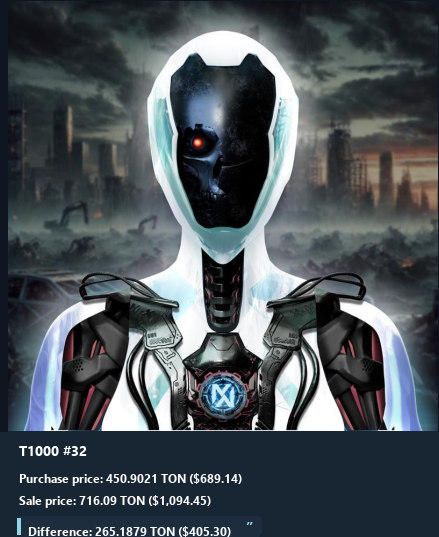
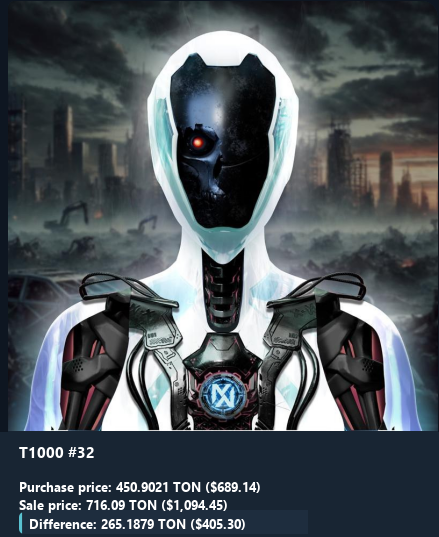
Rebuild EN profit cards to match RU layout and quote chrome.
Same line spacing and Telegram quote bar; English labels with TON/USD only.

Changed region(s): [[0.0296, 0.8045, 0.5923, 1.0]]

diff --git a/backend/scripts/make_en_profit_images.py b/backend/scripts/make_en_profit_images.py
@@ -1,5 +1,5 @@
 #!/usr/bin/env python3
-"""EN profit cards: same layout as RU originals, TON + USD only (no rubles)."""
+"""EN cards: clean panel + RU quote chrome, English labels, TON/$ only."""
 from __future__ import annotations
 
 import os
@@ -10,196 +10,133 @@ SRC = os.path.join(HERE, "..", "images_folder_probe")
 SRC_FALLBACK = os.path.join(HERE, "..", "images_folder")
 OUT = os.path.join(HERE, "..", "images_folder_en")
 
-# Exact panel starts from RU originals; keep same canvas size (no extend).
-SPECS = [
-    {
-        "file": "profits1.png",
-        "panel_y": 432,
-        "title": "T1000 #32",
-        "buy": ("450.9021", "689.14"),
-        "sell": ("716.09", "1,094.45"),
-        "diff": ("265.1879", "405.30"),
-        "theme": "dark",
-        "pad_x": 19,
-        "title_dy": 8,
-        "gap_title": 14,
-        "gap_lines": 6,
-        "gap_before_diff": 8,
-        "fs_title": 14,
-        "fs_body": 12,
-    },
-    {
-        "file": "profits2.jpg",
-        "panel_y": 608,
-        "title": "BOXER #25",
-        "buy": ("301.5967", "332.64"),
-        "sell": ("578.22", "637.75"),
-        "diff": ("276.6233", "305.10"),
-        "theme": "light",
-        "pad_x": 43,
-        "title_dy": 25,
-        "gap_title": 48,
-        "gap_lines": 36,
-        "gap_before_diff": 40,
-        "fs_title": 26,
-        "fs_body": 22,
-    },
-    {
-        "file": "profits3.png",
-        "panel_y": 432,
-        "title": "Meebit #18494",
-        "buy": ("232.6196", "355.53"),
-        "sell": ("460.91", "704.44"),
-        "diff": ("228.2904", "348.91"),
-        "theme": "dark",
-        "pad_x": 15,
-        "title_dy": 8,
-        "gap_title": 14,
-        "gap_lines": 6,
-        "gap_before_diff": 8,
-        "fs_title": 14,
-        "fs_body": 12,
-    },
-    {
-        "file": "profits4.png",
-        "panel_y": 432,
-        "title": "alien fren #9671",
-        "buy": ("872.98", "1,334.23"),
-        "sell": ("1,043.24", "1,594.45"),
-        "diff": ("170.26", "260.22"),
-        "theme": "dark",
-        "pad_x": 14,
-        "title_dy": 8,
-        "gap_title": 14,
-        "gap_lines": 6,
-        "gap_before_diff": 8,
-        "fs_title": 14,
-        "fs_body": 12,
-    },
-]
 
-
-def find_font(bold: bool) -> str:
-    names = (
-        ["segoeuib.ttf", "arialbd.ttf", "calibrib.ttf", "DejaVuSans-Bold.ttf"]
-        if bold
-        else ["segoeui.ttf", "arial.ttf", "calibri.ttf", "DejaVuSans.ttf"]
-    )
-    for root in (
-        r"C:\Windows\Fonts",
-        "/usr/share/fonts/truetype/dejavu",
-        "/usr/share/fonts/truetype/liberation",
-    ):
-        for name in names:
-            path = os.path.join(root, name)
-            if os.path.exists(path):
-                return path
-    raise FileNotFoundError("No usable font")
-
-
-def sample_panel_bg(im: Image.Image, panel_y: int) -> tuple[int, int, int]:
-    w, h = im.size
-    samples = []
-    for y in range(panel_y + 2, min(panel_y + 36, h - 2)):
-        for x in (w // 2, w // 3, 2 * w // 3):
-            samples.append(im.getpixel((x, y))[:3])
-    samples.sort(key=lambda c: sum(c))
-    return samples[len(samples) // 2]
+def find_font(size: int) -> ImageFont.FreeTypeFont:
+    for name in ("segoeuib.ttf", "arialbd.ttf", "calibrib.ttf"):
+        path = os.path.join(r"C:\Windows\Fonts", name)
+        if os.path.exists(path):
+            return ImageFont.truetype(path, size)
+    return ImageFont.truetype("/usr/share/fonts/truetype/dejavu/DejaVuSans-Bold.ttf", size)
 
 
 def src_path(fname: str) -> str:
     p = os.path.join(SRC, fname)
-    if os.path.exists(p):
-        return p
-    return os.path.join(SRC_FALLBACK, fname)
+    return p if os.path.exists(p) else os.path.join(SRC_FALLBACK, fname)
 
 
-def render(spec: dict) -> str:
-    base = Image.open(src_path(spec["file"])).convert("RGBA")
-    w, h = base.size
-    panel_y = spec["panel_y"]
-    theme = spec["theme"]
-    bg = sample_panel_bg(base, panel_y)
-    im = base.copy()
+def render_boxer() -> str:
+    fname = "profits2.jpg"
+    ru = Image.open(src_path(fname)).convert("RGB")
+    im = ru.copy()
+    draw = ImageDraw.Draw(im)
+    w, h = im.size
+    panel_y = 608
+
+    # Clean white panel (no ghosting)
+    draw.rectangle((0, panel_y, w, h), fill=(255, 255, 255))
+
+    # Paste original Telegram quote chrome from RU (bar + ”), wipe only text area
+    quote = ru.crop((40, 888, 600, 940))
+    q = quote.copy()
+    qd = ImageDraw.Draw(q)
+    qd.rectangle((18, 6, 500, 46), fill=(236, 246, 250))  # soft fill matching RU quote
+    im.paste(q, (40, 888))
+
+    ink = (18, 22, 28)
+    font_title = find_font(26)
+    font_body = find_font(22)
+    pad = 43
+
+    draw = ImageDraw.Draw(im)
+    draw.text((pad, 633), "BOXER #25", fill=ink, font=font_title)
+    draw.text((pad, 719), "Purchase price: 301.5967 TON", fill=ink, font=font_body)
+    draw.text((pad, 761), "($332.64)", fill=ink, font=font_body)
+    draw.text((pad, 804), "Sale price: 578.22 TON", fill=ink, font=font_body)
+    draw.text((pad, 847), "($637.75)", fill=ink, font=font_body)
+    draw.text((pad + 16, 904), "Difference: 276.6233 TON ($305.10)", fill=ink, font=font_body)
+
+    out = os.path.join(OUT, fname)
+    os.makedirs(OUT, exist_ok=True)
+    im.save(out, quality=95, optimize=True)
+    return out
+
+
+def render_dark(fname: str, title: str, buy: str, sell: str, diff: str, pad: int) -> str:
+    ru = Image.open(src_path(fname)).convert("RGBA")
+    w, h = ru.size
+    panel_y = 432
+    samples = [
+        ru.getpixel((x, y))[:3]
+        for y in range(panel_y + 4, panel_y + 24)
+        for x in (w // 2, w // 3)
+    ]
+    samples.sort(key=lambda c: sum(c))
+    bg = samples[len(samples) // 2]
+
+    im = ru.copy()
     draw = ImageDraw.Draw(im)
     draw.rectangle((0, panel_y, w, h), fill=bg + (255,))
 
-    font_title = ImageFont.truetype(find_font(True), spec["fs_title"])
-    font_body = ImageFont.truetype(find_font(True), spec["fs_body"])
-    font_quote = ImageFont.truetype(find_font(True), max(spec["fs_body"] + 2, 15))
+    # Quote chrome from RU
+    qy0, qy1 = 508, min(h - 2, 536)
+    quote = ru.crop((pad - 4, qy0, min(w - 8, pad + 310), qy1))
+    q = quote.copy()
+    qd = ImageDraw.Draw(q)
+    # wipe inner text, keep left bar (~3-5px) and right edge with ”
+    qw, qh = q.size
+    qd.rectangle((8, 2, max(9, qw - 22), qh - 2), fill=(30, 45, 62, 255))
+    im.paste(q, (pad - 4, qy0), q if q.mode == "RGBA" else None)
 
-    if theme == "dark":
-        text_color = (255, 255, 255)
-        accent = (144, 214, 230)
-        quote_fill = (30, 45, 62)
-    else:
-        text_color = (20, 24, 30)
-        accent = (100, 175, 200)
-        quote_fill = (232, 244, 248)
+    font_title = find_font(15)
+    font_body = find_font(13)
+    ink = (255, 255, 255, 255)
+    draw = ImageDraw.Draw(im)
+    draw.text((pad, 441), title, fill=ink, font=font_title)
+    draw.text((pad, 477), buy, fill=ink, font=font_body)
+    draw.text((pad, 495), sell, fill=ink, font=font_body)
+    draw.text((pad + 10, 514), diff, fill=ink, font=font_body)
 
-    pad = spec["pad_x"]
-    buy_t, buy_u = spec["buy"]
-    sell_t, sell_u = spec["sell"]
-    diff_t, diff_u = spec["diff"]
-
-    y = panel_y + spec["title_dy"]
-    draw.text((pad, y), spec["title"], fill=text_color + (255,), font=font_title)
-    y = draw.textbbox((pad, y), spec["title"], font=font_title)[3] + spec["gap_title"]
-
-    line1 = f"Purchase price: {buy_t} TON (${buy_u})"
-    draw.text((pad, y), line1, fill=text_color + (255,), font=font_body)
-    y = draw.textbbox((pad, y), line1, font=font_body)[3] + spec["gap_lines"]
-
-    line2 = f"Sale price: {sell_t} TON (${sell_u})"
-    draw.text((pad, y), line2, fill=text_color + (255,), font=font_body)
-    y = draw.textbbox((pad, y), line2, font=font_body)[3] + spec["gap_before_diff"]
-
-    diff = f"Difference: {diff_t} TON (${diff_u})"
-    bb = draw.textbbox((0, 0), diff, font=font_body)
-    tw, th = bb[2] - bb[0], bb[3] - bb[1]
-    pad_x, pad_y = 10, 5
-    bar_w = 3
-    box_x = pad - 2
-    box_w = min(w - box_x - 8, tw + pad_x * 2 + bar_w + 18)
-    box_h = th + pad_y * 2
-
-    # Keep quote inside canvas; never move it up over previous lines.
-    if y + box_h > h - 2:
-        pad_y = max(2, h - 2 - y - th)
-        box_h = th + pad_y * 2
-    if y + box_h > h:
-        box_h = max(th + 2, h - y)
-
-    draw.rounded_rectangle(
-        (box_x, y, box_x + box_w, min(y + box_h, h - 1)),
-        radius=5,
-        fill=quote_fill + (255,),
-    )
-    draw.rectangle(
-        (box_x, y + 2, box_x + bar_w, min(y + box_h, h - 1) - 2),
-        fill=accent + (255,),
-    )
-    draw.text(
-        (box_x + bar_w + pad_x - 2, y + max(1, pad_y - 1)),
-        diff,
-        fill=text_color + (255,),
-        font=font_body,
-    )
-    draw.text((box_x + box_w - 15, y), "”", fill=accent + (255,), font=font_quote)
-
+    out = os.path.join(OUT, fname)
     os.makedirs(OUT, exist_ok=True)
-    out_name = "profits2.jpg" if spec["file"].endswith(".jpg") else spec["file"]
-    out_path = os.path.join(OUT, out_name)
-    if out_name.endswith(".jpg"):
-        im.convert("RGB").save(out_path, quality=94, optimize=True)
-    else:
-        im.save(out_path, optimize=True)
-    return out_path
+    im.save(out, optimize=True)
+    return out
 
 
 def main() -> None:
-    for spec in SPECS:
-        print("wrote", render(spec))
+    print("wrote", render_boxer())
+    print(
+        "wrote",
+        render_dark(
+            "profits1.png",
+            "T1000 #32",
+            "Purchase price: 450.9021 TON ($689.14)",
+            "Sale price: 716.09 TON ($1,094.45)",
+            "Difference: 265.1879 TON ($405.30)",
+            19,
+        ),
+    )
+    print(
+        "wrote",
+        render_dark(
+            "profits3.png",
+            "Meebit #18494",
+            "Purchase price: 232.6196 TON ($355.53)",
+            "Sale price: 460.91 TON ($704.44)",
+            "Difference: 228.2904 TON ($348.91)",
+            15,
+        ),
+    )
+    print(
+        "wrote",
+        render_dark(
+            "profits4.png",
+            "alien fren #9671",
+            "Purchase price: 872.98 TON ($1,334.23)",
+            "Sale price: 1043.24 TON ($1,594.45)",
+            "Difference: 170.26 TON ($260.22)",
+            14,
+        ),
+    )
 
 
 if __name__ == "__main__":
